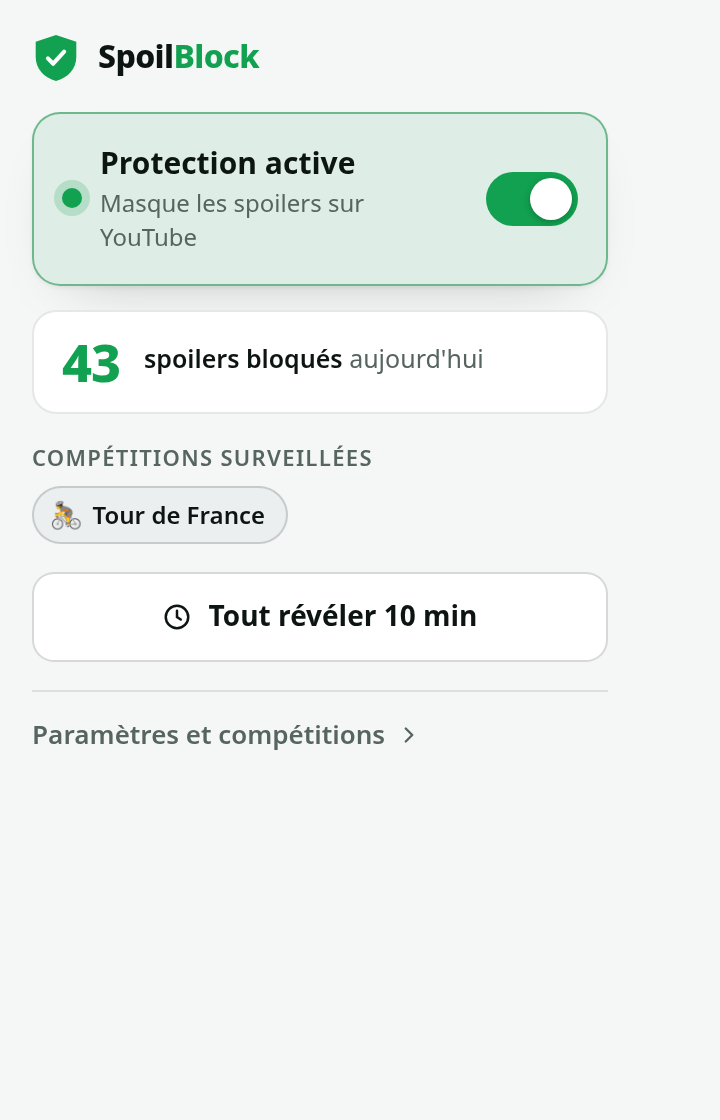
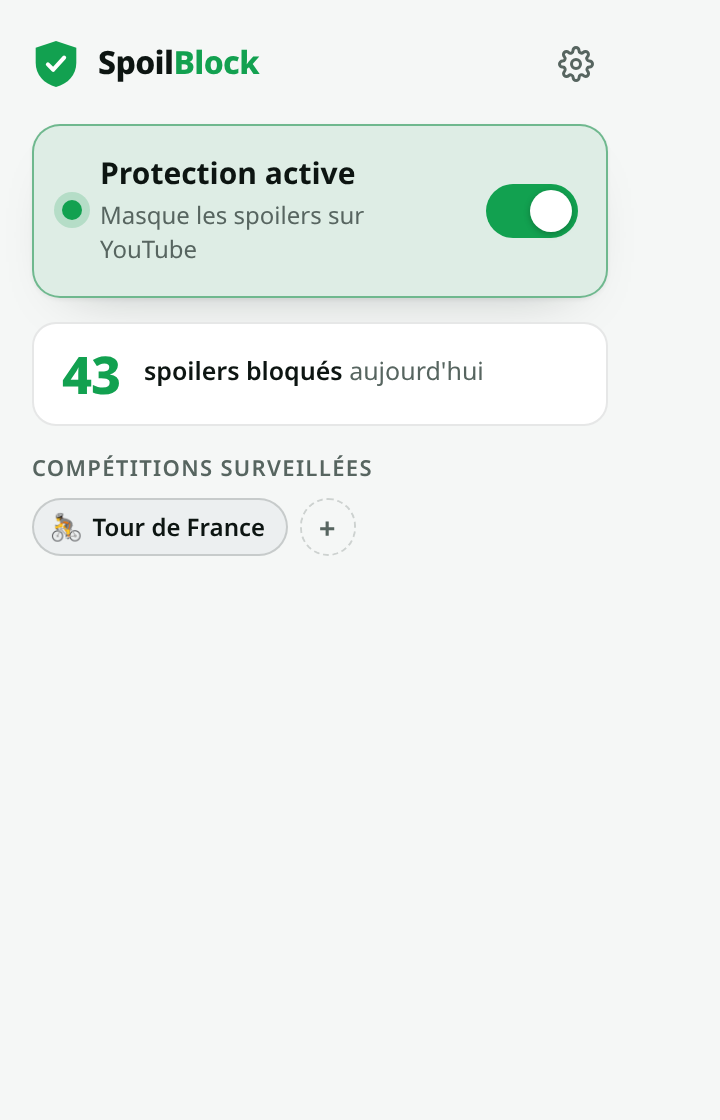
feat(landing): capture popup v2 (engrenage + ajout rapide)

diff --git a/backend/public/landing/index.html b/backend/public/landing/index.html
@@ -490,7 +490,7 @@
     </div>
     <div class="duo-shot">
       <div class="frame">
[2 lines of base64/hex data omitted]
              alt="Popup SpoilBlock : « Protection active », 43 spoilers bloqués aujourd'hui, compétition surveillée Tour de France.">
       </div>
     </div>

diff --git a/landing/index.html b/landing/index.html
@@ -490,7 +490,7 @@
     </div>
     <div class="duo-shot">
       <div class="frame">
[2 lines of base64/hex data omitted]
              alt="Popup SpoilBlock : « Protection active », 43 spoilers bloqués aujourd'hui, compétition surveillée Tour de France.">
       </div>
     </div>